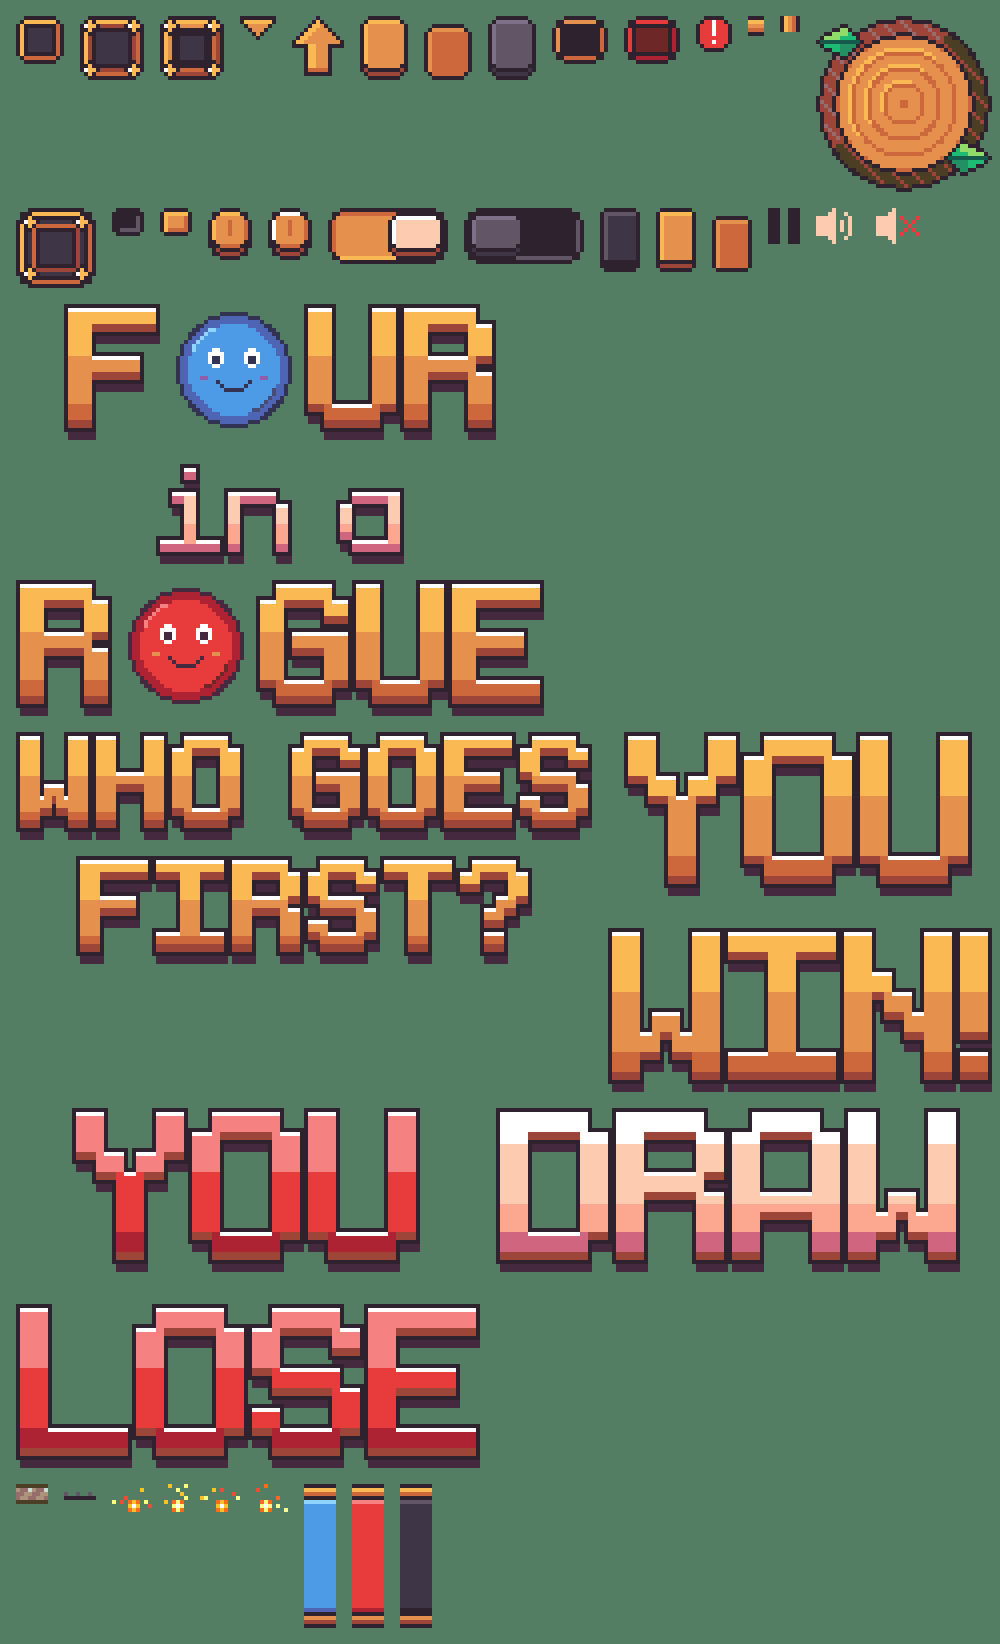
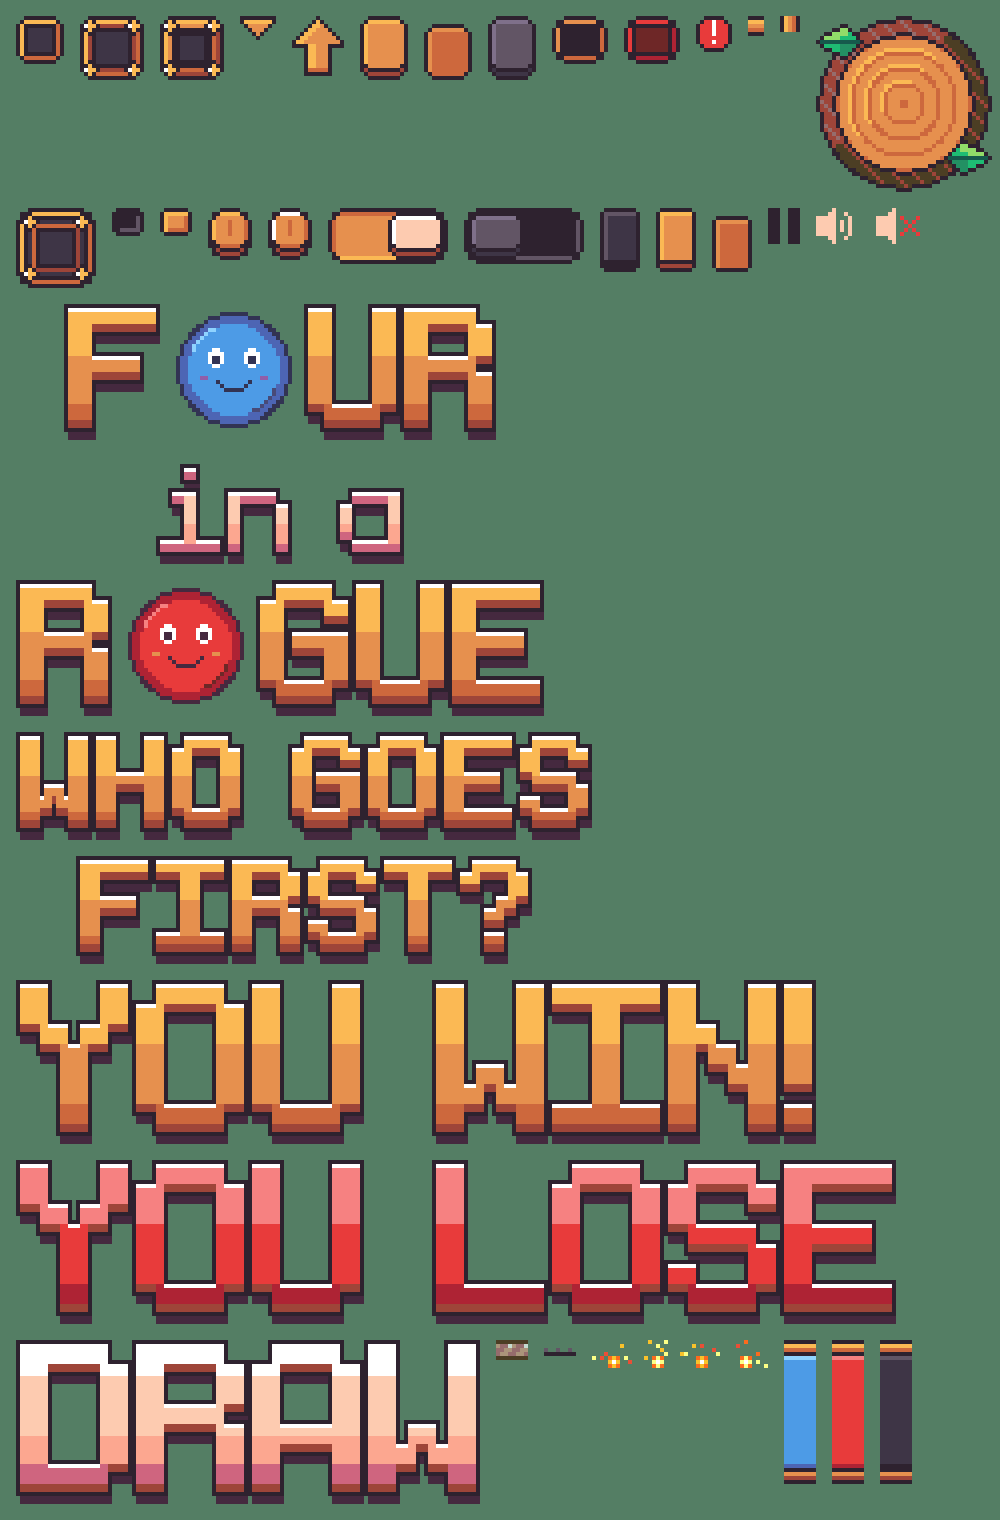
M6c playtest: greeting = c (tips his beanie), surprise only on a side-by-side two, one-line 5x end headings

diff --git a/art/ui/make_ui_kit.py b/art/ui/make_ui_kit.py
@@ -524,7 +524,7 @@ def logo():
     return img.crop(img.getbbox())
 
 
-END_SCALE = 5  # font px -> game px; big and stacked to fill the end screen (Sean, M6c playtest)
+END_SCALE = 5  # font px -> game px; big, one line, filling the end screen (Sean, M6c playtest)
 
 
 def heading_word(text, ramp, scale=END_SCALE):
@@ -654,8 +654,8 @@ def build():
         "icon_speaker_muted": icon_speaker(True),
         "logo": logo(),
         "heading_who_goes_first": heading_who_goes_first(),
-        "heading_you_win": heading_word("YOU\nWIN!", END_RAMPS["win"]),
-        "heading_you_lose": heading_word("YOU\nLOSE", END_RAMPS["lose"]),
+        "heading_you_win": heading_word("YOU WIN!", END_RAMPS["win"]),
+        "heading_you_lose": heading_word("YOU LOSE", END_RAMPS["lose"]),
         "heading_draw": heading_word("DRAW", END_RAMPS["draw"]),
         "fuse_rope": fuse_rope(),
         "fuse_burnt": fuse_burnt(),

diff --git a/art/strange_man/make_strange_man.py b/art/strange_man/make_strange_man.py
@@ -63,8 +63,8 @@ EXPRESSIONS = {  # asset name -> bust/raw_<source>.png
     # eyebrow" -> hand-pixelled bust/make_waiting_brow.py b1|b2|b3; Sean picked b2.
     "waiting": "waiting_b2",
     # Game-start greeting (M6c playtest, Sean 2026-11-22: "new wave face"): edit_image of
-    # idle, options bust/raw_greeting_a|b|c.png (compare_greeting.png); a = open-hand wave.
-    "greeting": "greeting_a",
+    # idle, options bust/raw_greeting_a|b|c.png (compare_greeting.png); Sean picked c (tips his beanie).
+    "greeting": "greeting_c",
 }
 GOOB_X = {"blue": 72, "red": 198}  # centre x in game px, either side of him on the pool
 CRACK_DARK, CRACK_LIT = hexc("2e222f"), hexc("c7dcd0")
